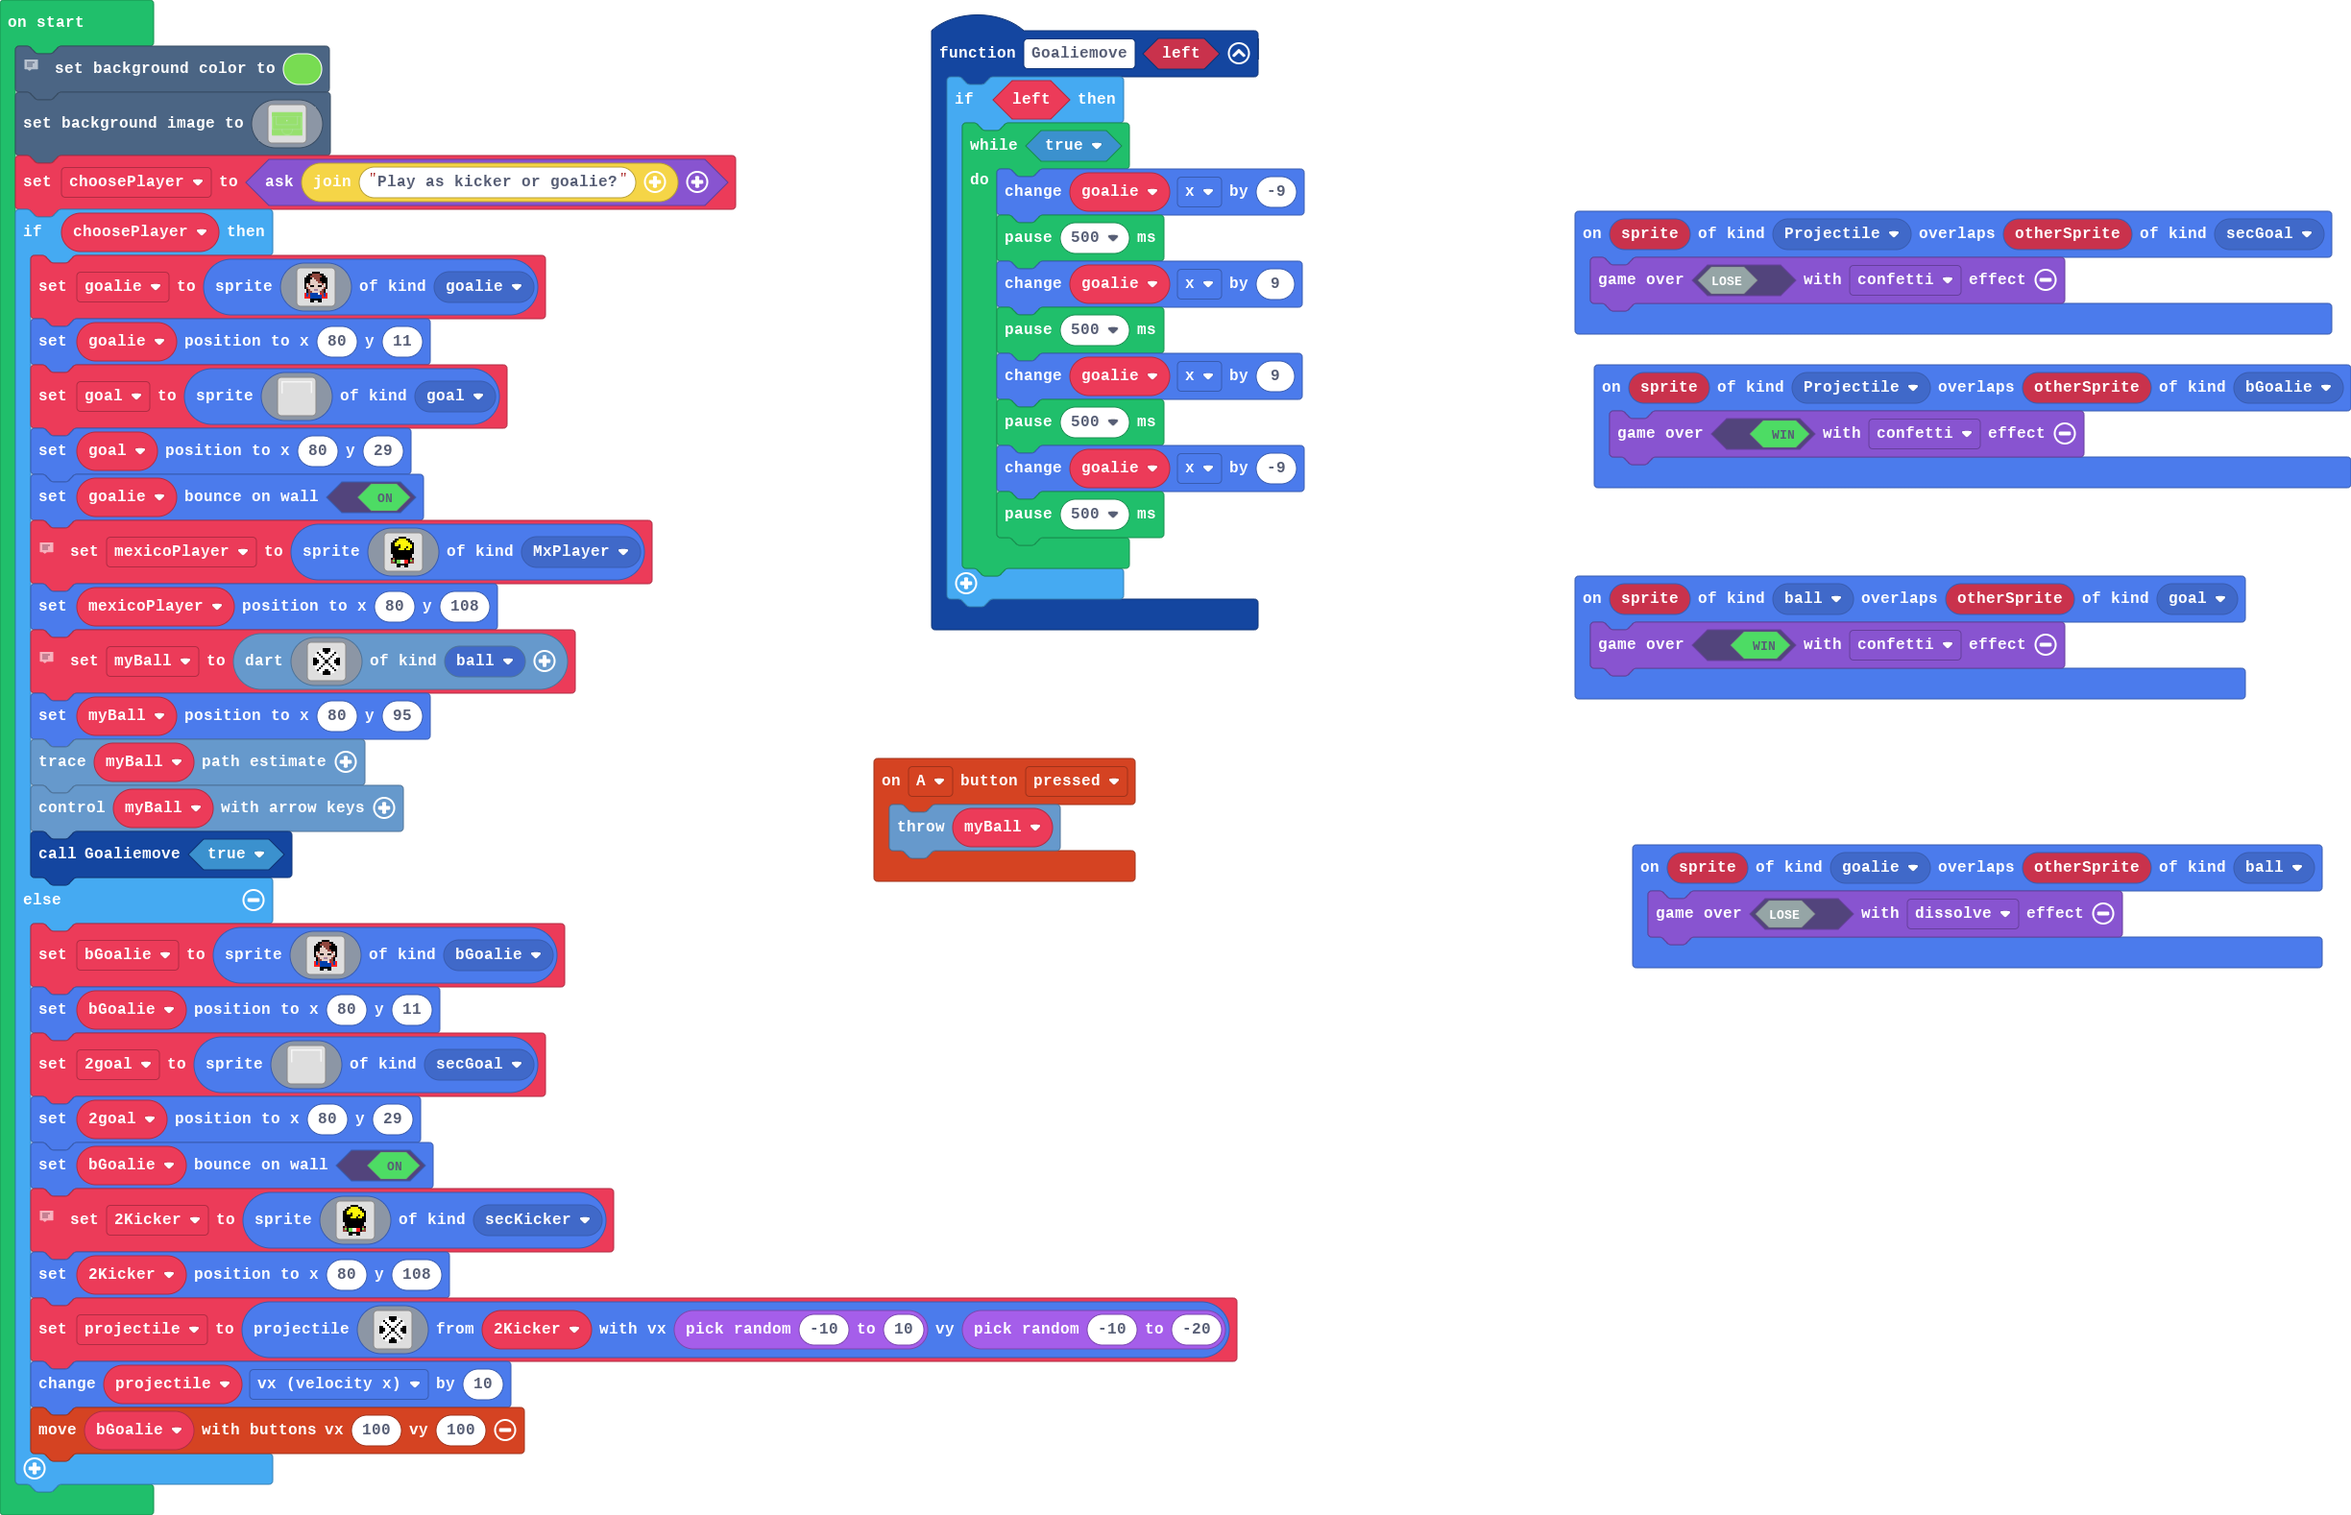
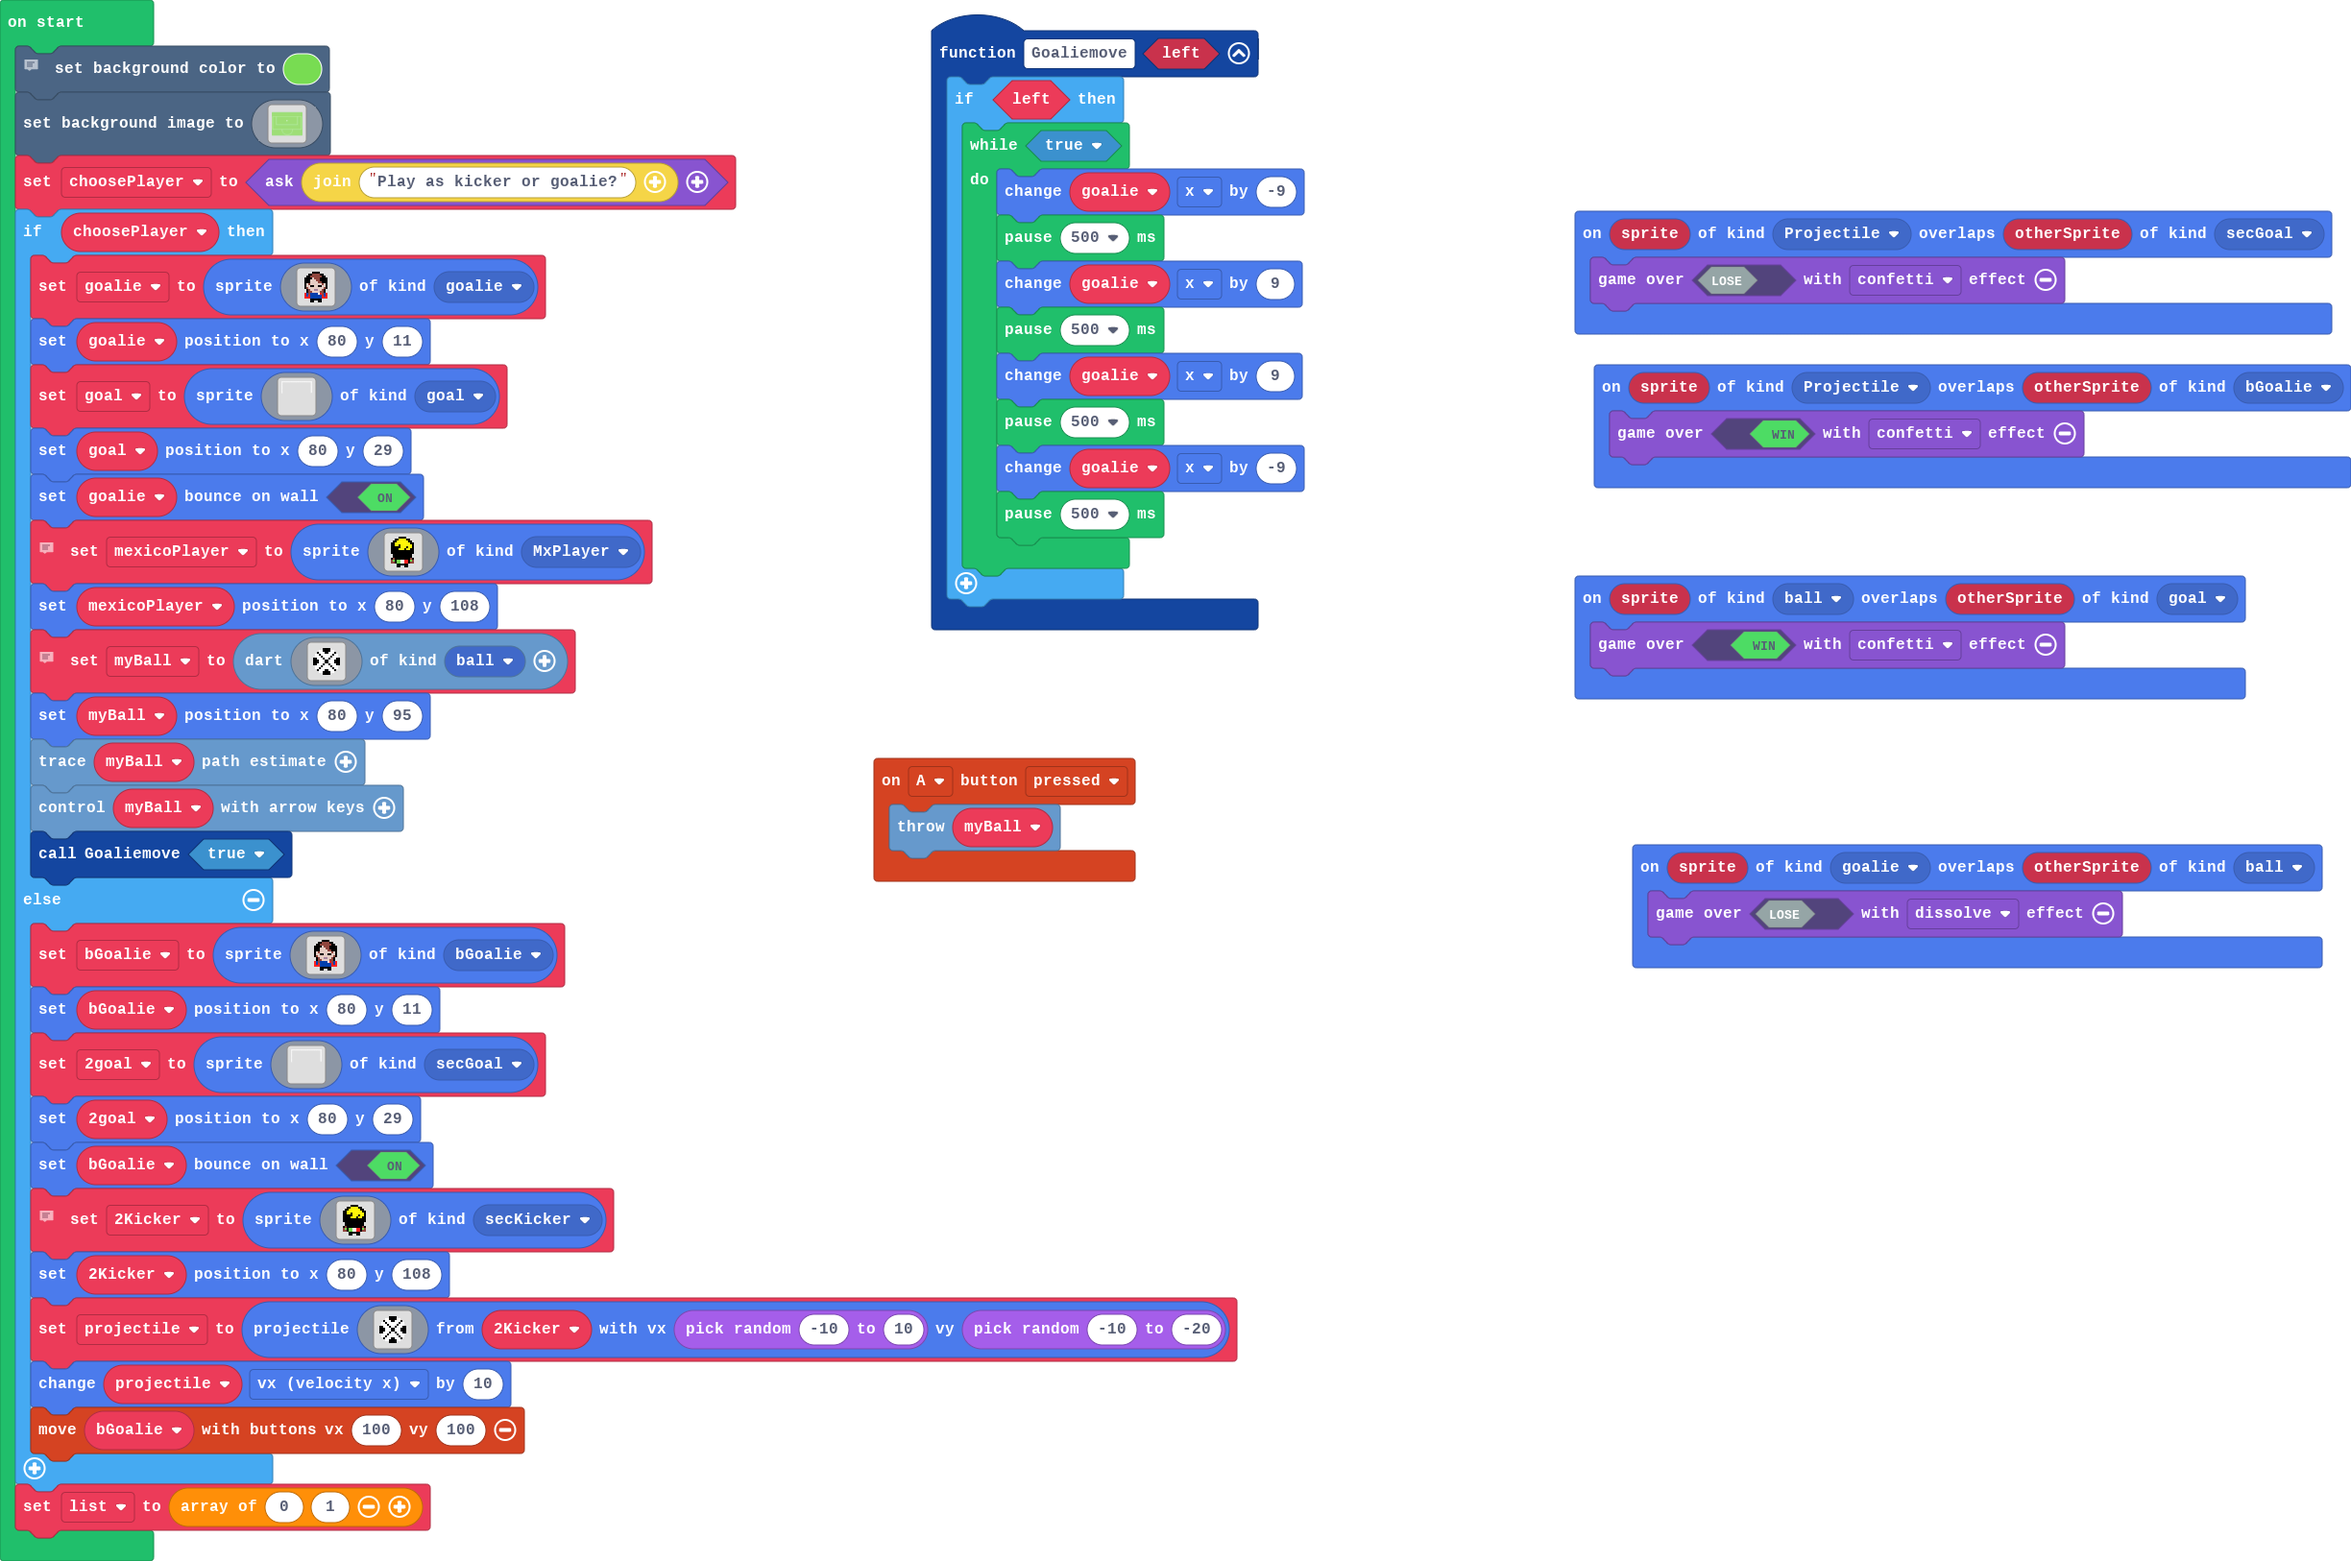
Update pxt.json, main.blocks, main.ts

diff --git a/main.ts b/main.ts
@@ -411,3 +411,4 @@ if (choosePlayer) {
     projectile.vx += 10
     controller.moveSprite(bGoalie, 100, 100)
 }
+let list = [0, 1]
